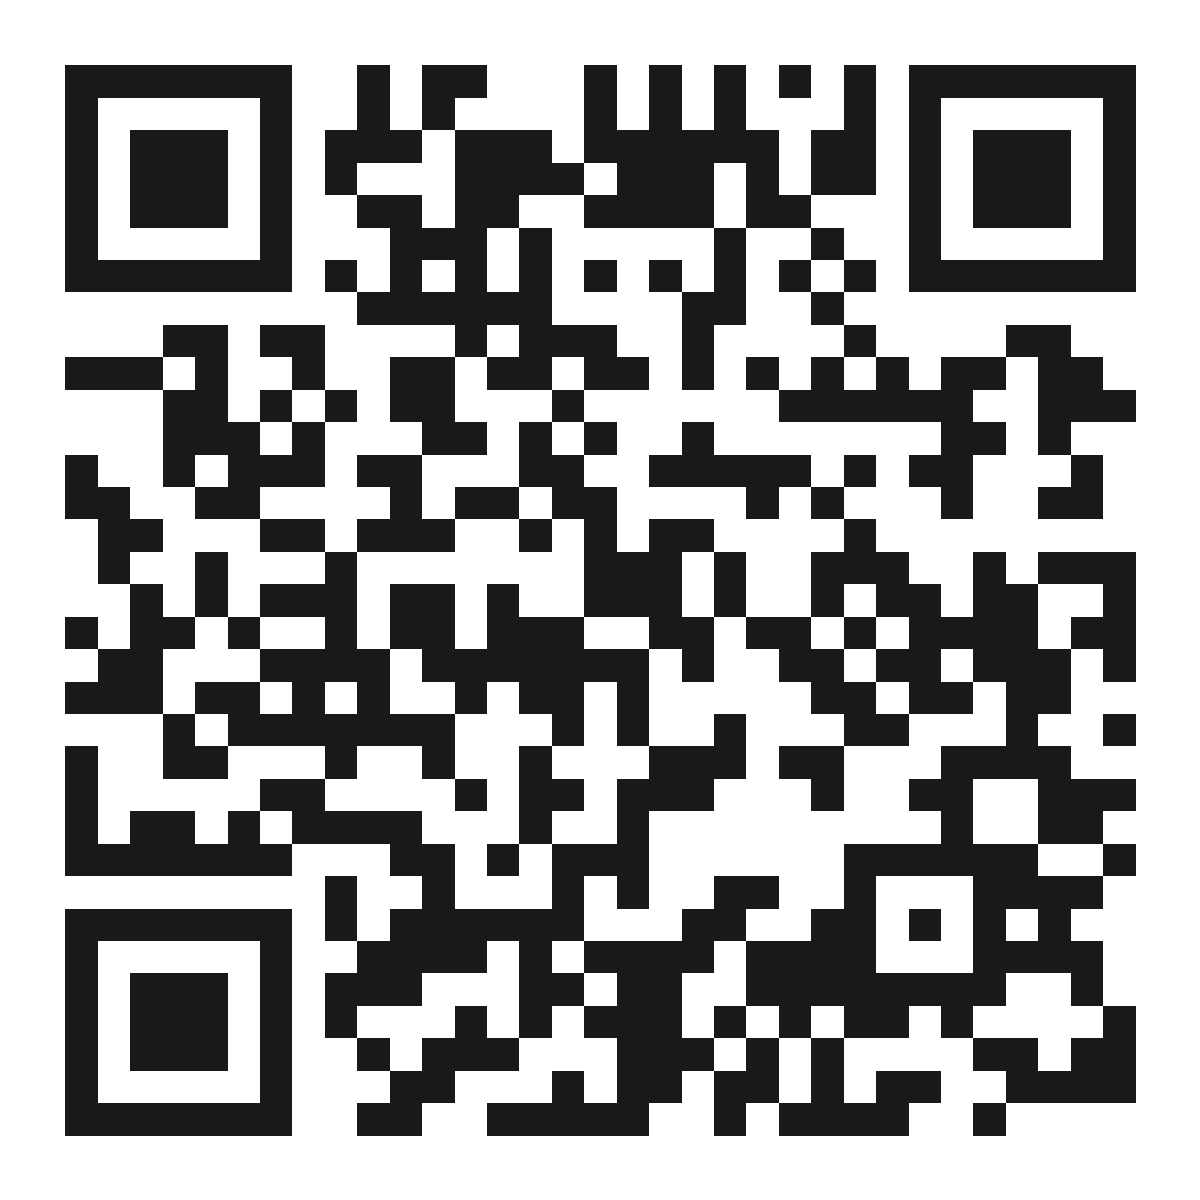
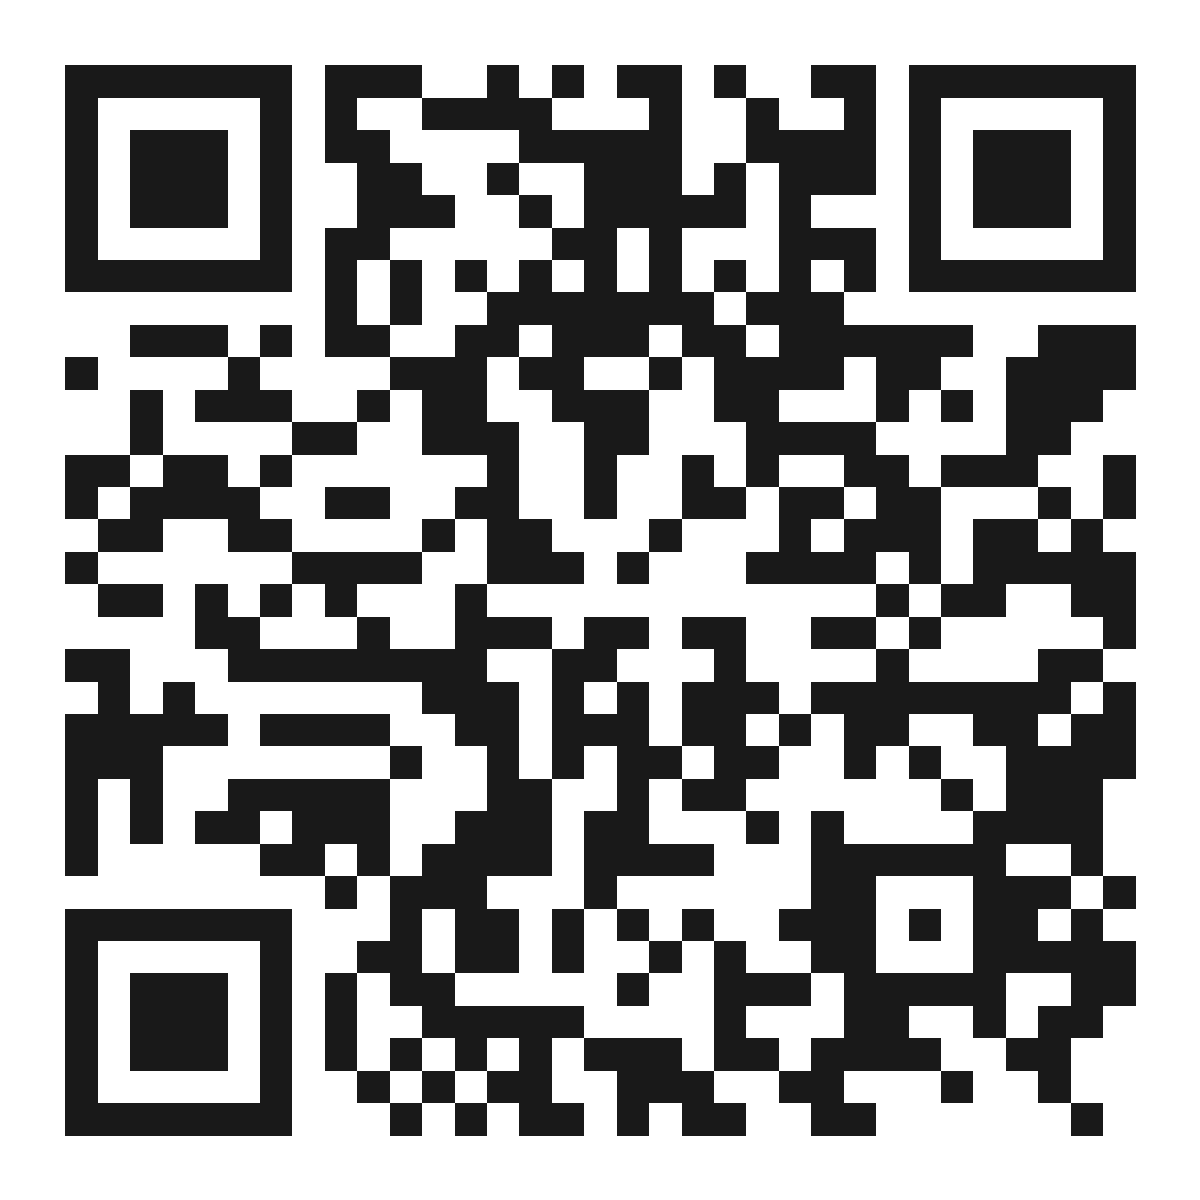
Fix production domain: hultprizeuwindsor.ca (not hultprizeatuwindsor.ca)

diff --git a/src/pages/ChapterPages.tsx b/src/pages/ChapterPages.tsx
@@ -47,5 +47,5 @@ export function PartnersPage() {
   return <><PageHeader title="Partners" subtitle="What support pays for, and how to offer it." /><Section title="Why we ask"><div className={SHOW_EVENT_PHOTOS ? "photo-copy-grid" : undefined}><Copy paragraphs={copy.partnersIntro} /><CampusPhoto photo="community" /></div></Section><Section title="Where the money goes" tint="paper-blue"><Copy paragraphs={copy.funding} /><CampusPhoto photo="room" className="campus-photo--wide" /><Stats items={[[ '$8,000', 'raised in year one'], ['$10,000', 'this year’s minimum'], ['0', 'spent on prize money']]} /></Section><Section title="A way to back every ambition" eyebrow="Partnership tiers"><div className="tier-list">{copy.tiers.map((text, i) => { const [heading, ...rest] = text.split('.  '); return <article className="tier-card" key={heading}><span className="tier-index">0{i + 1}</span><h3>{heading}</h3><p>{rest.join('.  ')}</p></article> })}</div></Section><Section title="Other ways to help" tint="paper-pink"><Copy paragraphs={copy.otherSupport} /></Section><Section title="Talk to us"><p className="prose">Every tier can be adapted. Tell us what your organisation cares about and we will build around it.</p><a className="btn btn--secondary email-cta" href={`mailto:${SITE.contactEmail}`}>{SITE.contactEmail}</a>{DOWNLOADS.partnershipProposal && <p><a className="text-link" href={DOWNLOADS.partnershipProposal} download>Download the full partnership proposal</a></p>}</Section></>
 }
 export function ContactPage() {
-  return <><PageHeader title="Find us" subtitle="We have a home, and the door is open." /><Section title="Inside Fusion"><Copy paragraphs={copy.contactIntro} /></Section><Section title="Come and find us" tint="paper-blue"><div className="contact-grid"><div><address><strong>Fusion</strong><br />Joyce Entrepreneurship Centre, 2nd Floor<br />2455 Wyandotte St. W.<br />Windsor, ON N9B 0C1</address><p>Southeast corner of Wyandotte Street West and Sunset Avenue.</p><p><strong>Open Monday to Friday, 9am to 4pm.</strong></p><p><a href="tel:+15192533000;ext=3515">519 253 3000, extension 3515.</a> Say you are asking about the Hult Prize initiative in the Fusion space.</p></div><iframe title="Joyce Entrepreneurship Centre map" src="https://maps.google.com/maps?q=Joyce%20Entrepreneurship%20Centre%202455%20Wyandotte%20St%20W%20Windsor&output=embed" loading="lazy" referrerPolicy="no-referrer-when-downgrade" allowFullScreen /></div></Section><Section title="Reach us"><dl className="contact-links">{[['Email', SITE.contactEmail, `mailto:${SITE.contactEmail}`], ['Phone', '519 253 3000, extension 3515', 'tel:+15192533000;ext=3515'], ['Instagram', SITE.instagramHandle, SITE.instagramUrl], ['LinkedIn', 'Hult Prize at the University of Windsor', SITE.linkedinUrl], ['Web', 'hultprizeatuwindsor.ca', SITE.websiteUrl]].map(([label, text, href]) => <div key={label}><dt>{label}</dt><dd><a href={href} target={href.startsWith('https') ? '_blank' : undefined} rel="noopener noreferrer">{text}</a></dd></div>)}</dl></Section></>
+  return <><PageHeader title="Find us" subtitle="We have a home, and the door is open." /><Section title="Inside Fusion"><Copy paragraphs={copy.contactIntro} /></Section><Section title="Come and find us" tint="paper-blue"><div className="contact-grid"><div><address><strong>Fusion</strong><br />Joyce Entrepreneurship Centre, 2nd Floor<br />2455 Wyandotte St. W.<br />Windsor, ON N9B 0C1</address><p>Southeast corner of Wyandotte Street West and Sunset Avenue.</p><p><strong>Open Monday to Friday, 9am to 4pm.</strong></p><p><a href="tel:+15192533000;ext=3515">519 253 3000, extension 3515.</a> Say you are asking about the Hult Prize initiative in the Fusion space.</p></div><iframe title="Joyce Entrepreneurship Centre map" src="https://maps.google.com/maps?q=Joyce%20Entrepreneurship%20Centre%202455%20Wyandotte%20St%20W%20Windsor&output=embed" loading="lazy" referrerPolicy="no-referrer-when-downgrade" allowFullScreen /></div></Section><Section title="Reach us"><dl className="contact-links">{[['Email', SITE.contactEmail, `mailto:${SITE.contactEmail}`], ['Phone', '519 253 3000, extension 3515', 'tel:+15192533000;ext=3515'], ['Instagram', SITE.instagramHandle, SITE.instagramUrl], ['LinkedIn', 'Hult Prize at the University of Windsor', SITE.linkedinUrl], ['Web', 'hultprizeuwindsor.ca', SITE.websiteUrl]].map(([label, text, href]) => <div key={label}><dt>{label}</dt><dd><a href={href} target={href.startsWith('https') ? '_blank' : undefined} rel="noopener noreferrer">{text}</a></dd></div>)}</dl></Section></>
 }

diff --git a/src/data/site.ts b/src/data/site.ts
@@ -5,7 +5,7 @@ export const SITE = {
   contactEmail: 'hultprizeatuwindsor@gmail.com',
   // Direct line to the Campus Director, shown as a second contact point.
   campusDirectorEmail: 'akhtari1@uwindsor.ca',
-  websiteUrl: 'https://hultprizeatuwindsor.ca',
+  websiteUrl: 'https://hultprizeuwindsor.ca',
   instagramHandle: '@hultprizeatuwindsor',
   instagramUrl: 'https://www.instagram.com/hultprizeatuwindsor/',
   signalRegisteredUrl: 'https://signal.group/#CjQKIKs4d_yjcI_b8-HQDZOUCTPgrwHLO9afYy86-aIccZO2EhA2jvXrmEDUZ5fvaccFQciT',

diff --git a/index.html b/index.html
@@ -14,7 +14,7 @@
       property="og:description"
       content="One idea, 4 minutes, $1,000,000. Sign up for the UWindsor Hult Prize team before registration closes November 20."
     />
-    <meta property="og:url" content="https://hultprizeatuwindsor.ca/" />
+    <meta property="og:url" content="https://hultprizeuwindsor.ca/" />
     <meta property="og:type" content="website" />
     <title>Hult Prize at University of Windsor</title>
   </head>

diff --git a/docs/launch-notes.md b/docs/launch-notes.md
@@ -1,6 +1,6 @@
 # Launch handoff
 
-The supplied build brief names eight pages; all eight are implemented. Existing `/team`, `/go`, and `/#signup` links still work. `/go` now points to `/compete#signup`. Printed QR assets encode `https://hultprizeatuwindsor.ca/go`.
+The supplied build brief names eight pages; all eight are implemented. Existing `/team`, `/go`, and `/#signup` links still work. `/go` now points to `/compete#signup`. Printed QR assets encode `https://hultprizeuwindsor.ca/go`.
 
 ## Content and assets still needed
 
@@ -22,7 +22,7 @@ The supplied build brief names eight pages; all eight are implemented. Existing 
 
 ## Deployment
 
-1. Connect `hultprizeatuwindsor.ca` to the Vercel project and verify DNS in the domain account. The old README described `hultprizeuwindsor.ca`; repository edits do not alter DNS or Vercel domain configuration.
+1. Connect `hultprizeuwindsor.ca` (the confirmed domain; an earlier draft used `hultprizeatuwindsor.ca` in error) to the Vercel project and verify DNS in the domain account. Repository edits do not alter DNS or Vercel domain configuration.
 2. Set `VITE_FORM_ENDPOINT` in Vercel, then build and deploy.
 3. Redeploy `google-apps-script/Code.gs` separately. It now sends a confirmation email after saving a valid sign-up, with the official registration link and both Signal chats. The script owner must authorize MailApp permissions. A mail failure is logged without dropping the saved sign-up.
 4. Verify the live sheet and confirmation email with an intentional real submission after deployment. Local checks use mocks and send no emails.

diff --git a/README.md b/README.md
@@ -1,7 +1,7 @@
 # Hult Prize at the University of Windsor
 
 React + TypeScript + Vite chapter website, configured for Vercel.
-Intended domain: **hultprizeatuwindsor.ca**.
+Intended domain: **hultprizeuwindsor.ca**.
 
 ## Pages
 
@@ -36,14 +36,14 @@ The only form is the student interest sign-up on Compete. It posts to the Google
 
 ## Deployment and domain
 
-The previous setup was documented as Vercel connected to GitHub with automatic deployment on pushes to `main`, with DNS managed through GoDaddy. Connect and verify `hultprizeatuwindsor.ca` in Vercel and the domain account; changing the repository does not change DNS.
+The previous setup was documented as Vercel connected to GitHub with automatic deployment on pushes to `main`, with DNS managed through GoDaddy. Connect and verify `hultprizeuwindsor.ca` in Vercel and the domain account; changing the repository does not change DNS.
 
 ## Printed QR code
 
-The stable printed link is `https://hultprizeatuwindsor.ca/go`. Vercel redirects it to `/compete#signup`.
+The stable printed link is `https://hultprizeuwindsor.ca/go`. Vercel redirects it to `/compete#signup`.
 
 ```sh
-node scripts/generate-qr.mjs https://hultprizeatuwindsor.ca/go
+node scripts/generate-qr.mjs https://hultprizeuwindsor.ca/go
 ```
 
 SVG and PNG outputs are in `qr-code/`.
